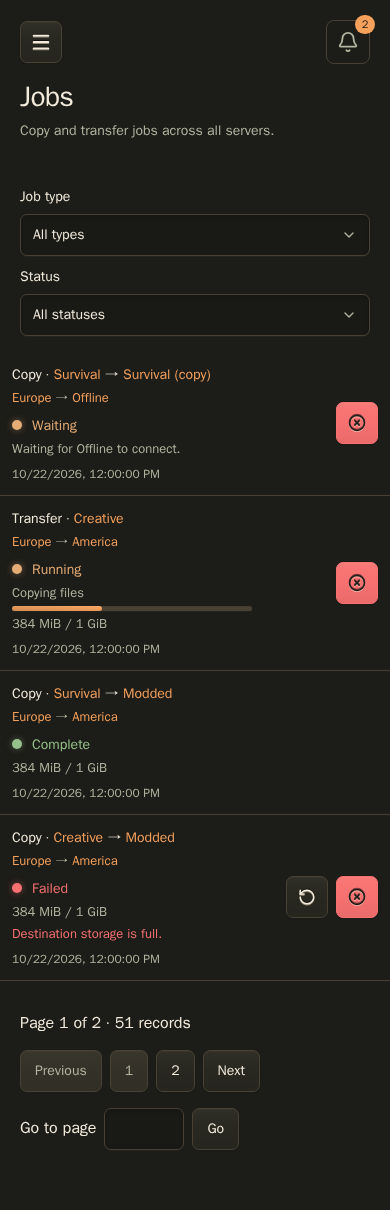
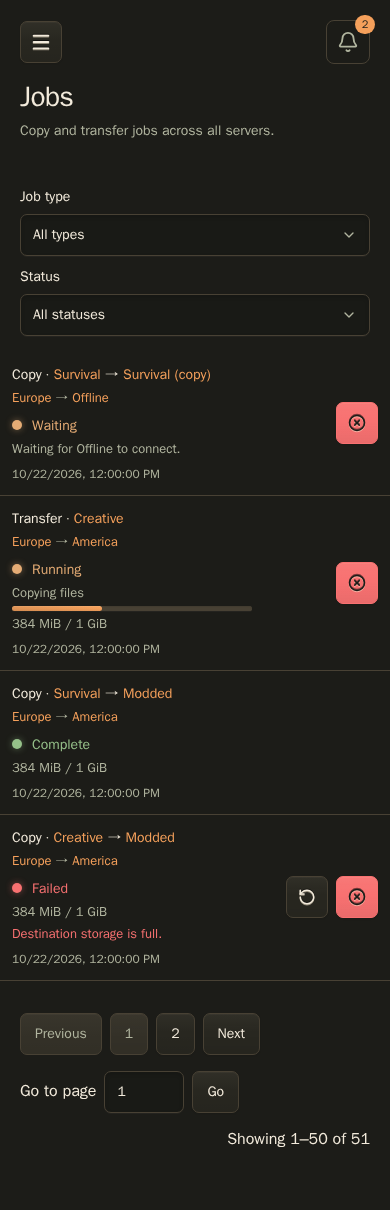
fix: improve pagination controls and range summary
Default Go to page to the loaded page, retain input after submission, and reset it on navigation. Right-align the summary and show record ranges as Showing 151–200 of 380. Cover range boundaries, input state, and responsive alignment; refresh screenshots.

diff --git a/web/tests/functional/pagination.test.tsx b/web/tests/functional/pagination.test.tsx
@@ -34,10 +34,15 @@ test("pagination supports previous, numbered links, next, and validated direct j
   expect(change).toHaveBeenLastCalledWith(20);
   await user.click(screen.getByRole("button", { name: "Next" }));
   expect(change).toHaveBeenLastCalledWith(6);
-  const input = screen.getByRole("spinbutton", { name: "Go to page" });
+  const input = screen.getByRole<HTMLInputElement>("spinbutton", {
+    name: "Go to page",
+  });
+  expect(input.value).toBe("5");
+  await user.clear(input);
   await user.type(input, "12");
   await user.click(screen.getByRole("button", { name: "Go" }));
   expect(change).toHaveBeenLastCalledWith(12);
+  expect(input.value).toBe("12");
   expect(
     screen.getByRole("button", { name: "Page 5" }).getAttribute("aria-current"),
   ).toBe("page");
@@ -55,6 +60,60 @@ test("pagination supports previous, numbered links, next, and validated direct j
   for (const button of screen.getAllByRole<HTMLButtonElement>("button"))
     expect(button.disabled).toBe(true);
 });
+
+test("Go to page defaults to the loaded page and follows navigation without clearing on polls", async () => {
+  const change = vi.fn();
+  const user = userEvent.setup();
+  const view = render(
+    <Pagination pagination={undefined} onPageChange={change} />,
+  );
+  const show = (page: number) =>
+    view.rerender(
+      <Pagination
+        pagination={pageFixture([], page, 1000).pagination}
+        onPageChange={change}
+      />,
+    );
+  const input = () =>
+    screen.getByRole<HTMLInputElement>("spinbutton", { name: "Go to page" });
+  show(3);
+  expect(input().value).toBe("3");
+  await user.clear(input());
+  await user.type(input(), "7");
+  show(3);
+  expect(input().value).toBe("7");
+  await user.click(screen.getByRole("button", { name: "Go" }));
+  expect(change).toHaveBeenLastCalledWith(7);
+  expect(input().value).toBe("7");
+  show(7);
+  expect(input().value).toBe("7");
+  await user.clear(input());
+  await user.type(input(), "12");
+  show(3);
+  expect(input().value).toBe("3");
+  show(1);
+  expect(input().value).toBe("1");
+});
+
+test.each([
+  { page: 1, count: 125, size: 50, summary: "Showing 1–50 of 125" },
+  { page: 2, count: 125, size: 50, summary: "Showing 51–100 of 125" },
+  { page: 3, count: 125, size: 50, summary: "Showing 101–125 of 125" },
+  { page: 4, count: 100, size: 10, summary: "Showing 31–40 of 100" },
+  { page: 4, count: 125, size: 50, summary: "Showing 0–0 of 125" },
+  { page: 2, count: 0, size: 50, summary: "Showing 0–0 of 0" },
+])(
+  "pagination shows the index range: $summary",
+  ({ page, count, size, summary }) => {
+    render(
+      <Pagination
+        pagination={pageFixture([], page, count, size).pagination}
+        onPageChange={vi.fn()}
+      />,
+    );
+    expect(screen.getByRole("status").textContent).toBe(summary);
+  },
+);
 
 test("single-page collections hide navigation and boundary buttons are disabled", () => {
   const view = render(

diff --git a/web/src/components/table/Pagination.tsx b/web/src/components/table/Pagination.tsx
@@ -1,4 +1,3 @@
-import { useState } from "react";
 import { useTranslation } from "react-i18next";
 import type { PaginationMetadata } from "../../api/pagination";
 import { Button } from "../forms/Button";
@@ -17,10 +16,17 @@ export function Pagination({
   label?: string;
 }) {
   const { t } = useTranslation();
-  const [target, setTarget] = useState("");
   if (!pagination) return null;
-  const { page, total_pages: total, total_items: count } = pagination;
+  const {
+    page,
+    page_size: size,
+    total_pages: total,
+    total_items: count,
+  } = pagination;
   if (total <= 1 && page === 1) return null;
+  const offset = (page - 1) * size;
+  const start = offset < count ? offset + 1 : 0;
+  const end = offset < count ? Math.min(offset + size, count) : 0;
   const numbers = [...new Set([1, total, page - 1, page, page + 1])]
     .filter((n) => n >= 1 && n <= total)
     .sort((a, b) => a - b);
@@ -30,9 +36,6 @@ export function Pagination({
       aria-label={label ?? t("pagination.label")}
       aria-busy={loading}
     >
-      <span role="status">
-        {t("pagination.summary", { page, total, count })}
-      </span>
       <div className="pagination-pages">
         <Button
           disabled={loading || page <= 1}
@@ -65,28 +68,31 @@ export function Pagination({
       <form
         onSubmit={(event) => {
           event.preventDefault();
-          const n = Number(target);
+          const n = Number(new FormData(event.currentTarget).get("page"));
           if (Number.isSafeInteger(n) && n >= 1 && n <= total) {
             onPageChange(n);
-            setTarget("");
           }
         }}
       >
         <label>
           {t("pagination.goTo")}{" "}
           <TextInput
+            key={page}
+            name="page"
             type="number"
             min={1}
             max={Math.max(1, total)}
             step={1}
             required
-            value={target}
+            defaultValue={page}
             disabled={loading || !total}
-            onChange={(event) => setTarget(event.target.value)}
           />
         </label>
         <Button disabled={loading || !total}>{t("pagination.go")}</Button>
       </form>
+      <span className="pagination-summary" role="status">
+        {t("pagination.summary", { start, end, count })}
+      </span>
     </nav>
   );
 }

diff --git a/e2e/schedules.spec.ts b/e2e/schedules.spec.ts
@@ -396,25 +396,33 @@ test("schedule history navigates numbered pages without appending or including o
   const history = page
     .getByRole("dialog")
     .getByRole("region", { name: "Execution history", exact: true });
+  const goTo = history.getByRole("spinbutton", {
+    name: "Go to page",
+    exact: true,
+  });
   await expect(history.getByRole("row")).toHaveCount(51);
+  await expect(goTo).toHaveValue("1");
   await history.getByRole("button", { name: "Next", exact: true }).click();
   await expect(history.getByText("Attempt 50", { exact: true })).toBeVisible();
   await expect(history.getByText("Attempt 0", { exact: true })).toHaveCount(0);
-  await history
-    .getByRole("spinbutton", { name: "Go to page", exact: true })
-    .fill("3");
+  await expect(goTo).toHaveValue("2");
+  await goTo.fill("3");
   await history.getByRole("button", { name: "Go", exact: true }).click();
   await expect(history.getByRole("row")).toHaveCount(3);
+  await expect(goTo).toHaveValue("3");
   await expect(history.getByText("Attempt 101", { exact: true })).toBeVisible();
   await expect(
     history.getByRole("button", { name: "Next", exact: true }),
   ).toBeDisabled();
   await history.getByRole("button", { name: "Page 1", exact: true }).click();
   await expect(history.getByText("Attempt 0", { exact: true })).toBeVisible();
+  await expect(goTo).toHaveValue("1");
   await page.goBack();
   await expect(history.getByText("Attempt 101", { exact: true })).toBeVisible();
+  await expect(goTo).toHaveValue("3");
   await page.goForward();
   await expect(history.getByText("Attempt 0", { exact: true })).toBeVisible();
+  await expect(goTo).toHaveValue("1");
 });
 
 test("schedule history can retry a failed request and display an empty result", async ({

diff --git a/e2e/jobs.spec.ts b/e2e/jobs.spec.ts
@@ -84,8 +84,19 @@ test("admins can manage global jobs and open server Activity from resource detai
   const jobs = page.getByRole("region", { name: "Jobs", exact: true });
   await expect(jobs.getByText("Waiting for Offline to connect.")).toBeVisible();
   await expect(jobs.locator("tbody tr")).toHaveCount(4);
+  const summary = jobs.locator(".pagination-summary");
+  const summaryRightGap = () =>
+    summary.evaluate((element) =>
+      Math.abs(
+        element.parentElement!.getBoundingClientRect().right -
+          element.getBoundingClientRect().right,
+      ),
+    );
+  await expect(summary).toHaveText("Showing 1–50 of 51");
+  await expect.poll(summaryRightGap).toBeLessThanOrEqual(1);
   await screenshot(page, "jobs.png");
   await page.setViewportSize({ width: 390, height: 844 });
+  await expect.poll(summaryRightGap).toBeLessThanOrEqual(1);
   await screenshot(page, "jobs-mobile.png");
   await page.setViewportSize({ width: 1400, height: 900 });
   await jobs.getByRole("button", { name: "Next", exact: true }).click();
@@ -93,6 +104,7 @@ test("admins can manage global jobs and open server Activity from resource detai
   await expect(
     jobs.getByRole("row", { name: "Copy older-cancelled-copy", exact: true }),
   ).toBeVisible();
+  await expect(summary).toHaveText("Showing 51–51 of 51");
   await page.getByRole("combobox", { name: "Status", exact: true }).click();
   await page.getByRole("option", { name: "Complete", exact: true }).click();
   await expect(jobs.locator("tbody tr")).toHaveCount(1);

diff --git a/web/src/components/table/pagination.css b/web/src/components/table/pagination.css
@@ -16,6 +16,10 @@
   & .pagination-pages {
     flex-wrap: wrap;
   }
+  & .pagination-summary {
+    margin-inline-start: auto;
+    text-align: end;
+  }
   & input {
     width: 5rem;
   }
